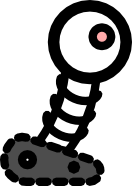
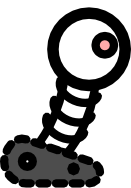
Pulsing

diff --git a/game.html b/game.html
@@ -124,6 +124,9 @@ $(function() {
   var playerImage = new Image();
   playerImage.src = "images/robot.png";
 
+  var playerImage2 = new Image();
+  playerImage2.src = "images/robot2.png";
+
   var game = {};
   var levelIndex = 0;
 
@@ -168,7 +171,7 @@ $(function() {
     game.exit = new Door(level.exit[0], level.exit[1], door1Image, door2Image, doorOpenImage);
     game.entities.push(game.exit);
 
-    game.player = new Player(level.entrance[0], level.entrance[1], level.fuelEnabled, playerImage, jumpImage, robotDeadImage, cloudImage, jumpSounds, deadSounds, batterySounds, tiltSounds);
+    game.player = new Player(level.entrance[0], level.entrance[1], level.fuelEnabled, playerImage, playerImage2, jumpImage, robotDeadImage, cloudImage, jumpSounds, deadSounds, batterySounds, tiltSounds);
     
     game.collison = new CollisionManager(game.player, game.entities);
 

diff --git a/player.js b/player.js
@@ -1,4 +1,4 @@
-function Player(initX, initY, fuelEnabled, img, jumpImg, deadImg, cloudImg, jumpSounds, deadSounds, batterySounds, tiltSounds) {
+function Player(initX, initY, fuelEnabled, img, img2, jumpImg, deadImg, cloudImg, jumpSounds, deadSounds, batterySounds, tiltSounds) {
   this.x = initX;
   this.y = initY;
 
@@ -110,6 +110,11 @@ function Player(initX, initY, fuelEnabled, img, jumpImg, deadImg, cloudImg, jump
     context.rotate(-rotation);
 
     var image = img;
+    if(Date.now() % 1600 > 1200) {
+      image = img2;
+    }
+
+
     if(this.jumping) {
       image = jumpImg;
     }
